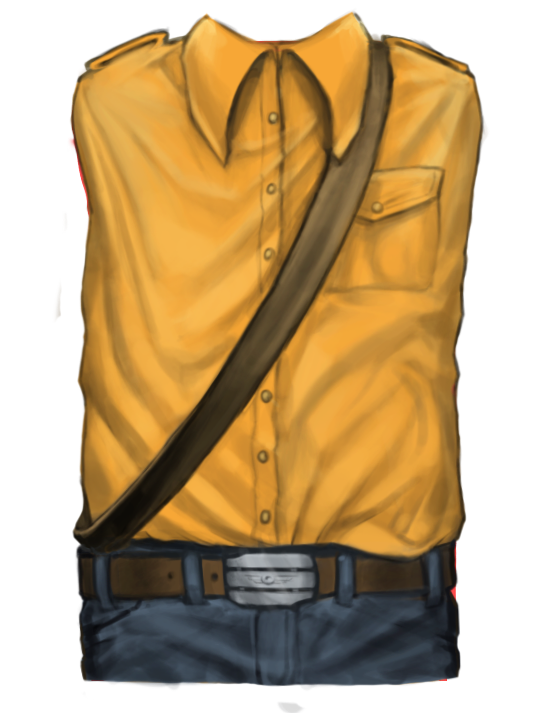
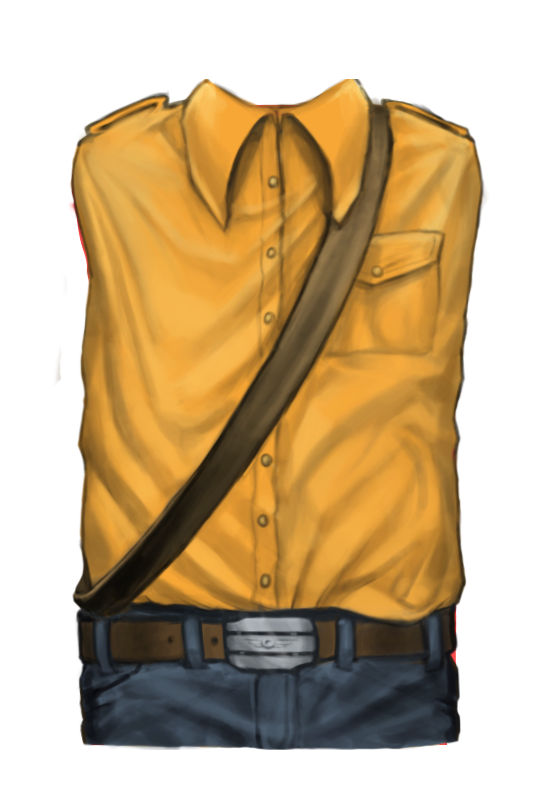
Screen-res independance utan stretch, fixat bilder.

diff --git a/Clothes/main.cpp b/Clothes/main.cpp
@@ -12,9 +12,6 @@
 #include "KinectUser.h"
 #include "UserController.h"
 
-#define WINDOW_X 800
-#define WINDOW_Y 600
-
 bool g_running = false;
 Kinect g_kinect;
 
@@ -124,7 +121,7 @@ void drawHUD()
 	glMatrixMode(GL_PROJECTION);
 	glPushMatrix();
 	glLoadIdentity();
-	glOrtho(0, WINDOW_X, 0, WINDOW_Y, -1.0, 1.0);
+	glOrtho(0, res.X, 0, res.Y, -1.0, 1.0);
 	glDisable(GL_DEPTH_TEST); 
 
 	glColor3f(1, 1, 1);
@@ -160,7 +157,11 @@ void glutDisplay()
 	glDisable(GL_DEPTH_TEST); 
 	glClear(GL_COLOR_BUFFER_BIT | GL_DEPTH_BUFFER_BIT);
 
-	glOrtho(0, res.X, res.Y, 0, -1.0, 1.0);
+	if(glutGet(GLUT_SCREEN_WIDTH) < glutGet(GLUT_SCREEN_HEIGHT))
+		glOrtho((res.X / 2) - (res.Y * glutGet(GLUT_SCREEN_WIDTH)) / (glutGet(GLUT_SCREEN_HEIGHT) * 2), (res.X / 2) + (res.Y * glutGet(GLUT_SCREEN_WIDTH)) / (glutGet(GLUT_SCREEN_HEIGHT) * 2), res.Y, 0, -1.0, 1.0);
+	else
+		glOrtho(0, res.X, res.Y, 0, -1.0, 1.0);
+
 	if(drawBg)
 		drawBackground();
 
@@ -242,7 +243,6 @@ void glInit (int *pargc, char **argv)
 
 	glEnable (GL_BLEND);
 	glBlendFunc (GL_SRC_ALPHA, GL_ONE_MINUS_SRC_ALPHA);
-	new KinectUser();
 }
 
 void updateOutfitForUser(KinectUser *user, int type)
